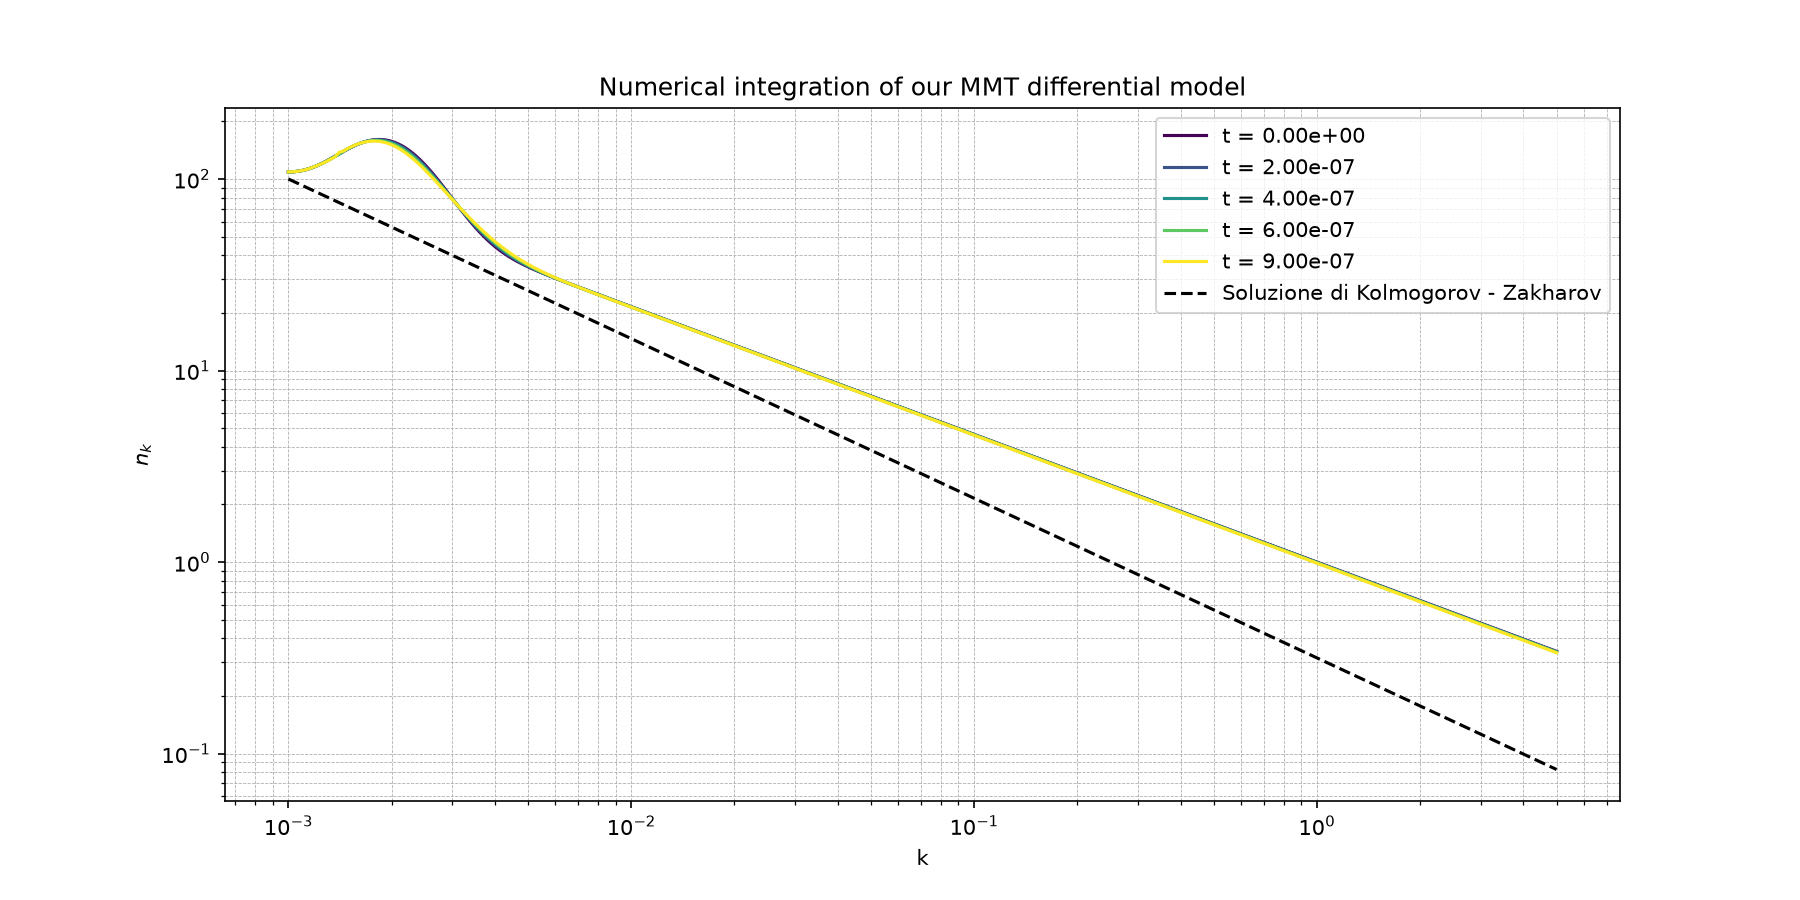
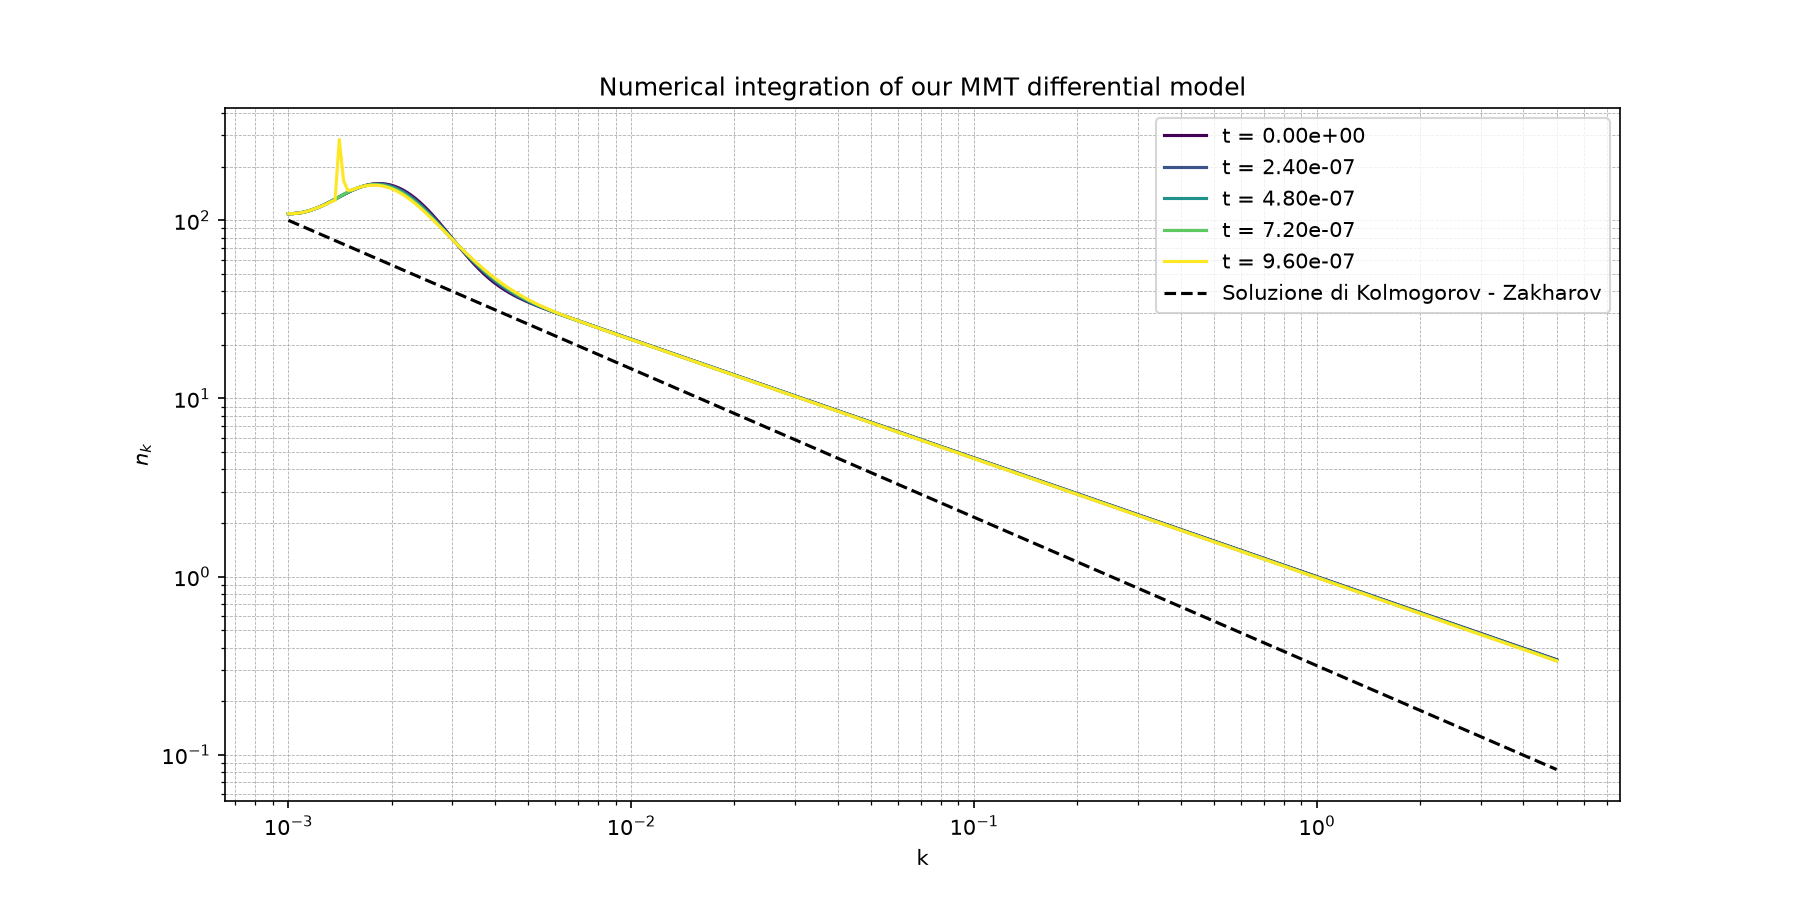
Refactor integration parameters: adjust dt_chunk for Gaussian results; update relative tolerance for improved accuracy; remove outdated log output image

diff --git a/main_DAM.py b/main_DAM.py
@@ -28,11 +28,11 @@ ts, ns = integrate_chunked(
 )
 
 tsg, nsg = integrate_chunked(
-    rhs, n_k_gaus, (0.0, 1.0), dt_chunk=1e-7,
+    rhs, n_k_gaus, (0.0, 1.0), dt_chunk=1e-8,
     apply_bc_func=apply_bc,
     bc_args=(k, n_left_fix_g, 6, 6, 4),
     rhs_args=(k, n_left_fix_g, dlnk, eta1, eta2),
-    rtol=1e-6, atol=1e-10
+    rtol=1e-5, atol=1e-10
 )
 
 #print("positiva ovunque:", np.all(ns.y > 0))
